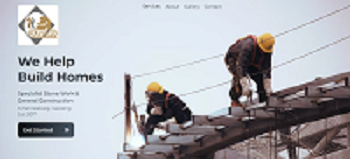
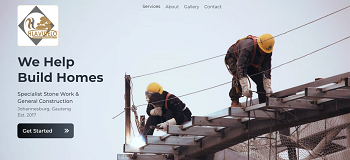
work imgs

diff --git a/index.html b/index.html
@@ -239,7 +239,15 @@
           <div class="item-flex-container">
             <div class="item-content">
               <figure class="item-image">
-                <img src="img/orich-dekstop-hero.png" alt="Orich Trading & Projects logo">
+                <picture>
+                  <source
+                  srcset="img/orich_650.png"
+                  media="(min-width: 450px)"
+                  width="650"
+                  height="297"
+                  >
+                  <img src="img/orich_350.png" width="350" height="160" alt="Orich Trading & Projects logo">
+                </picture>
               </figure>
             </div>
             <div class="item-header">
@@ -270,7 +278,15 @@
           <div class="item-flex-container">
             <div class="item-content">
               <figure class="item-image">
-                <img src="img/munch-desk-min.png" alt="Munch Up logo">
+                <picture>
+                  <source
+                  media="(min-width: 450px)"
+                  srcset="img/munch_650.png"
+                  width="650"
+                  height="355"
+                  >
+                  <img src="img/munch_350.png" width="350" height="191" alt="Munch Up logo">
+                </picture>
               </figure>
             </div>
             <div class="item-header">
@@ -298,7 +314,15 @@
           <div class="item-flex-container">
             <div class="item-content">
               <figure class="item-image">
-                <img src="img/hlavutelo-desktop-min.png" alt="Orich Trading & Projects logo">
+                <picture>
+                  <source
+                  media="(min-width: 450px)"
+                  srcset="/img/hlavutelo_600.png"
+                  width="600"
+                  height="274"
+                  >
+                  <img src="img/hlavutelo_350.png" width="350" height="159" alt="Hlavutelo Trading & projects">
+                </picture>
               </figure>
             </div>
             <div class="item-header">
